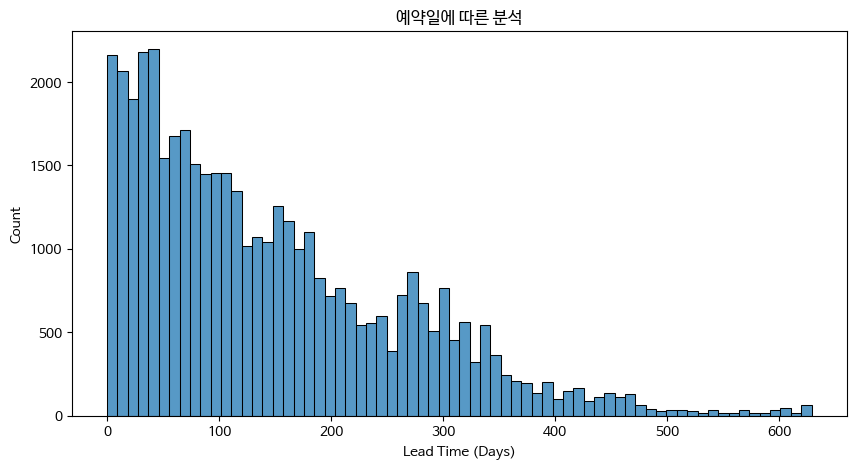
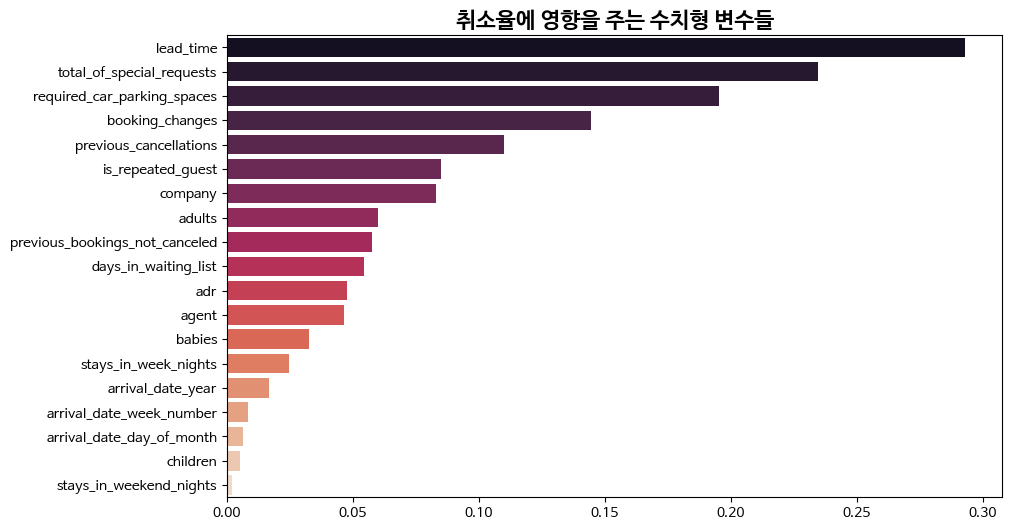
add sidebar and update posts

diff --git a/index.html b/index.html
@@ -1,3 +1,5 @@
 ---
 layout: home
+sidebar:
+  nav: "custom-sidebar"
 ---

diff --git a/_posts/python/data_science/2026-07-09-1.md b/_posts/python/data_science/2026-07-09-1.md
@@ -18,26 +18,26 @@ import seaborn as sns
 {% endhighlight %}
 
 ### 한글 폰트 설정
+
 {% highlight python %}
 !sudo apt-get install -y fonts-nanum
 !sudo fc-cache -fv
 !rm ~/.cache/matplotlib -rf
 
-import matplotlib.pyplot as plt
 plt.rc('font', family='NanumBarunGothic')
-plt.rcParams['axes.unicode_minus'] =False
+plt.rcParams['axes.unicode_minus'] = False
 {% endhighlight %}
 
 ### 파일 불러오기
+
 {% highlight python %}
 path = kagglehub.dataset_download("jessemostipak/hotel-booking-demand") + "/hotel_bookings.csv"
 df = pd.read_csv(path)
 {% endhighlight %}
 
 ## 데이터 확인
-{% highlight python %}
-df.info()
-{% endhighlight %}
+
+### `df.info()`
 
 {% highlight text %}
 <class 'pandas.core.frame.DataFrame'>
@@ -82,58 +82,176 @@ df.info()
 {% endhighlight %}
 
 ### 결측치 확인
-`company`의 결측치가 가장 높지만 값이 없다는 것은 개인이 예약을 했다는 것이므로 값이 없다고 행을 지워서는 안 된다. 대신, 값이 없는 것은 0으로 채운다.
+
 {% highlight python %}
 df.isnull().sum().loc[lambda x : x > 0].sort_values(ascending=False)
-df = df.fillna(0)
 {% endhighlight %}
 
-### 예약 취소율
-예약을 취소한 사람들뿐만 아니라 노쇼도 매출 저하에 영향을 주기 때문에 두 가지 상태 모두 생각해야 한다.
+값이 없는 것은 0으로 채운다.
+
 {% highlight python %}
-print(f"{df['reservation_status'].isin(['Canceled', 'No-Show']).mean():0.1%}")
+nan_replacements = {"children:": 0,"country": "Unknown", "agent": 0, "company": 0}
+df = df.fillna(nan_replacements)
+df.fillna(0, inplace=True)
 {% endhighlight %}
 
 ## 취소 원인 분석
 
-### 이전 방문 여부에 따른 분석
-`is_repeated_guest = 0`이면 신규 고객이고, `is_repeated_guest = 1`이면 기존 고객이다. 취소 고객의 대부분이 신규 고객이었다. 왜 신규 고객들이 예약을 취소하게 되었는지 알아보자.
+### 예약 취소율
+예약을 취소한 사람들뿐만 아니라 노쇼도 매출 저하에 영향을 주기 때문에 두 가지 상태 모두 생각해야 한다. 전체 예약 중 37% 이상이 취소된 예약이다.
 
 {% highlight python %}
-first_time_guest = (df['reservation_status'].isin(['Canceled', 'No-Show'])) & (df['is_repeated_guest'] == 0)
-print(f"{first_time_guest.mean():0.1%}")
+canceled = df['reservation_status'].isin(['Canceled', 'No-Show'])
+print(f"{canceled.mean():0.1%}")
 {% endhighlight %}
 
-### 예약일에 따른 분석
-`lead_time`이 0~300 사이인 예약들, 즉 예약 당일부터 300일 전까지의 예약들의 취소율이 가장 높았다.
+#### 결과
+
+{% highlight text %}
+37.0%
+{% endhighlight %}
+
+### 취소율에 영향을 주는 수치형 변수들
+아래 순서대로 취소율에 영향을 준다.
 
 {% highlight python %}
-plt.figure(figsize=(10, 5))
-sns.histplot(df[first_time_guest]['lead_time'])
-plt.title('예약일에 따른 분석')
-plt.xlabel('Lead Time (Days)')
-plt.ylabel('Count')
+correlation = df.corr(numeric_only=True)['is_canceled'].abs().sort_values(ascending = False).drop('is_canceled')
+plt.figure(figsize=(10, 6))
+sns.barplot(x=correlation.values, y=correlation.index, hue=correlation.index, palette='rocket', legend=False)
+plt.title("취소율에 영향을 주는 수치형 변수들", fontsize=16, fontweight="bold")
+plt.ylabel("")
 plt.show()
 {% endhighlight %}
 
 ![image](/assets/images/2026-07-09-1.png)
 
-### 보증금 여부에 따른 분석
-1. **No Deposit:** 보증금 장벽이 낮을수록 높은 취소율을 보임.
-2. **Non Refund:** 환불이 불가한 경우에도 취소를 해야만 했던 원인이 있을 것으로 보임.
+### 남은 예약 일수에 따른 분석
+예약 건수로 보면 예약 당일에 취소하는 사람이 압도적으로 많다. 취소율로 보자면 기간이 길어질수록 높아진다.
 
 {% highlight python %}
-deposit_type_group = df[first_time_guest].groupby('deposit_type').size()
-deposit_type_group
+fig, axes = plt.subplots(1, 2, figsize=(16, 6))
+
+sns.kdeplot(data=df, x='lead_time', hue='is_canceled', fill=True, common_norm=False, alpha=0.5, ax=axes[0])
+axes[0].set_title('남은 일수에 따른 취소 예약 수', fontsize=16, fontweight='bold')
+axes[0].set_xlabel('Lead Time (Days)')
+
+df['lead_time_month'] = (df['lead_time'] // 30) * 30
+df_filtered = df[df['lead_time'] <= 360]
+
+sns.lineplot(
+    data=df_filtered, 
+    x='lead_time_month', 
+    y='is_canceled', 
+    marker='o',
+    color='#e74c3c',
+    linewidth=2,
+    errorbar=None,
+    ax=axes[1]
+)
+axes[1].set_title('남은 일수에 따른 취소율', fontsize=16, fontweight='bold')
+axes[1].set_xlabel('Lead Time (Days)')
+axes[1].grid(True, linestyle='--', alpha=0.5)
+{% endhighlight %}
+
+![image](/assets/images/2026-07-09-2.png)
+
+### 특별 요청 수와 요청한 주차 공간 수에 따른 분석
+특별 요청이 1개 이상부터 취소율이 급감하였고, 요청한 주차 공간 수가 1개 이상부터는 취소율이 0%였다.
+
+{% highlight python %}
+fig, axes = plt.subplots(1, 2, figsize=(16, 6))
+
+# total_of_special_requests
+sns.barplot(
+    data=df,
+    x='total_of_special_requests',
+    y='is_canceled',
+    errorbar=None,
+    palette='Blues_r',
+    ax=axes[0]
+)
+
+axes[0].set_title("특별 요청 개수에 따른 취소율 변화", fontsize=16, fontweight="bold")
+axes[0].set_xlabel("Total Special Requests")
+
+# required_car_parking_spaces
+parking_ratio = pd.crosstab(
+    df['required_car_parking_spaces'], 
+    df['is_canceled'], 
+    normalize='index'
+) * 100
+
+parking_ratio.plot(
+    kind='bar', 
+    stacked=True, 
+    color=['#3498db', '#e74c3c'],
+    rot=0,
+    ax=axes[1]
+)
+
+axes[1].set_title("요청한 주차 공간 수에 따른 취소/유지 비율", fontsize=16, fontweight="bold")
+axes[1].set_xlabel("Required Car Parking Spaces")
+axes[1].legend(["유지", "취소 "], loc='lower left')
+
+for p in axes[1].patches:
+    width, height = p.get_width(), p.get_height()
+    if height > 1.0:
+        x, y = p.get_xy() 
+        axes[1].text(
+            x + width/2, 
+            y + height/2, 
+            f'{height:.1f}%', 
+            ha='center', 
+            va='center', 
+            color='white', 
+            fontweight='bold',
+            fontsize=10
+        )
+{% endhighlight %}
+
+![image](/assets/images/2026-07-09-3.png)
+
+### 고객 유형에 따른 분석
+취소 고객의 대부분은 신규 고객인 경우가 많았다.
+
+{% highlight python %}
+df[df['is_canceled'] == 1]['is_repeated_guest'].value_counts()
+{% endhighlight %}
+
+#### 결과
+
+{% highlight text %}
+is_repeated_guest
+0    43672
+1      552
+Name: count, dtype: int64
+{% endhighlight %}
+
+### 보증금 여부에 따른 분석
+* **`No Deposit`:** 보증금 장벽이 낮을수록 높은 취소율을 보임.
+* **`Non Refund`:** 환불이 불가한 경우에도 취소를 해야만 했던 원인이 있을 것으로 보임.
+
+{% highlight python %}
+df[df['is_canceled'] == 1]['deposit_type'].value_counts()
+{% endhighlight %}
+
+#### 결과
+
+{% highlight text %}
+deposit_type
+No Deposit    29694
+Non Refund    14494
+Refundable       36
+Name: count, dtype: int64
 {% endhighlight %}
 
 ## 분석 결과
-### 1. 신규 고객 유치를 위한 방안
-예약 취소 인원 대부분이 신규 고객이다. 예약을 했더라도 서비스 품질이나 리뷰가 좋지 않은 경우, 혹은 광고된 내용과 실제 내용이 다른 경우 고객이 예약을 취소할 수도 있다. 신규 고객 유치를 위한 방안이 필요한 것으로 보인다.
+### 1. 남은 일수별 고객 관리
+* 예약 당일에 취소하는 사람들에 대한 패널티 제도 강화가 필요해 보인다.
+* 특별 요청이나 요청한 주차 공간의 수가 많을수록 취소율이 현저히 적다. 예약일이 많이 남은 경우에는 사전에 특별 요청과 주차 공간 등에 대한 조사를 해서 고객에 예약에 대해 조금 더 관심을 둬서 변경을 쉽게 할 수 없게 만드는 방안이 필요해 보인다.
 
-### 2. 취소와 노쇼에 대한 패널티 제도 강화
-예약 당일에 취소하거나 노쇼 하는 사람들에 대한 패널티 제도가 부족했기 때문에 자유롭게 예약을 취소할 수 있었던 것으로 보인다.
-
+### 2. 신규 고객 유치를 위한 방안
+예약 취소 인원 대부분이 신규 고객이다. 예약을 했더라도 서비스 품질이나 리뷰가 좋지 않은 경우, 혹은 광고된 내용과 실제 내용이 다른 경우 고객이 예약을 취소할 수도 있다. 신규 고객 유치를 위한 방안이 필요한 것으로 보인다. 
 
 ### 3. 불가피한 취소에 대한 대안 마련
 환불이 불가한 경우에도 취소를 한 사람들에 대해서 원인을 분석하고, '예약 취소' 대신 '예약일 변경' 등의 대안을 생각하면 좋을 것 같다.